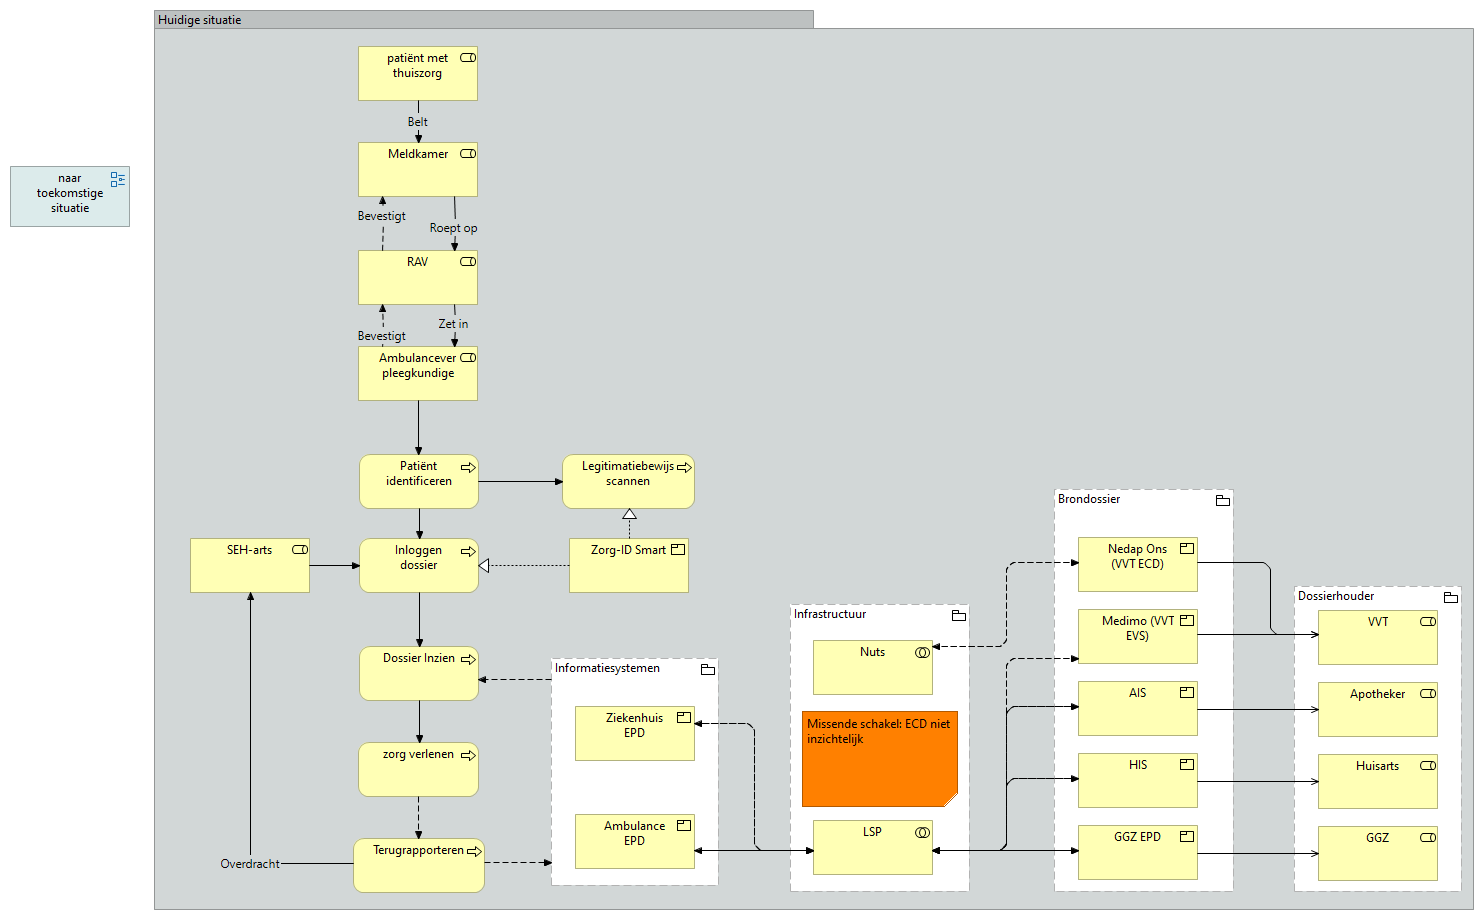
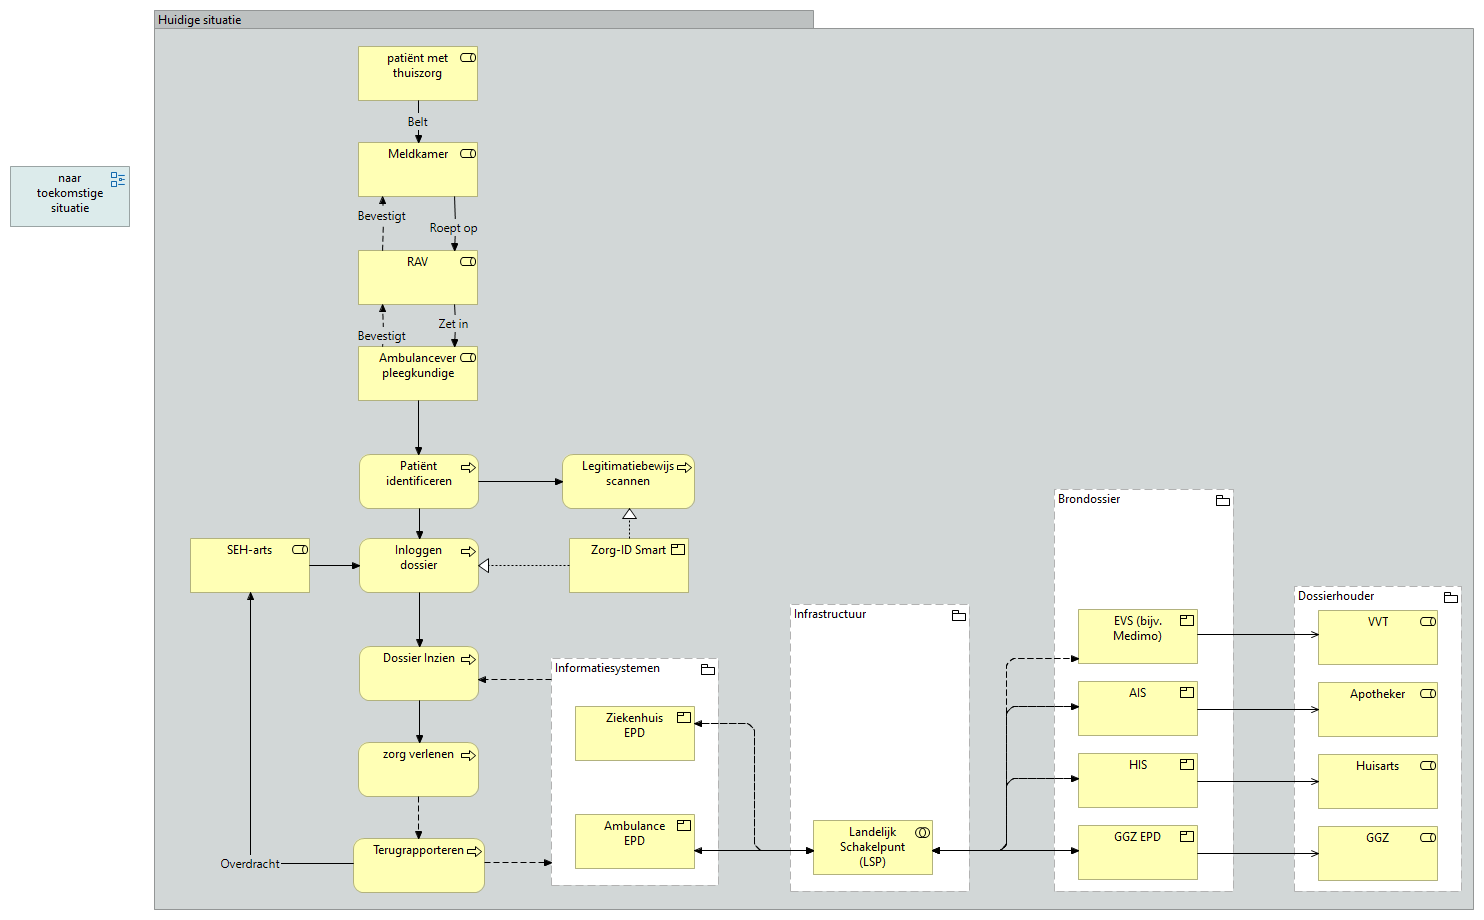
aanpassing labels

Changed region(s): [[0.527, 0.6696, 0.6509, 0.9435], [0.7129, 0.5783, 0.8059, 0.7]]

diff --git a/id-2978c798c725459f88e9747ef69d2dee/views/id-892637a22e7f4433a2bf2a9d409f790b.html b/id-2978c798c725459f88e9747ef69d2dee/views/id-892637a22e7f4433a2bf2a9d409f790b.html
@@ -39,7 +39,6 @@
 				  				<area shape="rect" coords="1078,753,1198,808" href="../elements/id-8a04cf6429d34b03b0242abb523a407c.html"  target="element">
 				  				<area shape="rect" coords="1078,681,1198,736" href="../elements/id-c128988b8b85412ebed89185a4fd1a63.html"  target="element">
 				  				<area shape="rect" coords="1078,609,1198,664" href="../elements/id-0154bebb7cc047919d71fb9e2e324224.html"  target="element">
-				  				<area shape="rect" coords="1078,537,1198,592" href="../elements/id-6486b65c8ce1423893e4a9becf7341fa.html"  target="element">
 
 				  		<area shape="rect" coords="1054,489,1234,892" href="../elements/id-f3c2c09665e244898fb362988f17a6cb.html"  target="element">
 				  		<area shape="rect" coords="190,538,310,593" href="../elements/id-195655a7af58488fa645f840015280d1.html"  target="element">
@@ -52,9 +51,7 @@
 				  				<area shape="rect" coords="1318,610,1438,665" href="../elements/id-a970b32e162041cbbf8ad7f137a571d1.html"  target="element">
 
 				  		<area shape="rect" coords="1294,586,1462,892" href="../elements/id-c75d58281407487ba07c6c3db7667ac8.html"  target="element">
-				  		        <area shape="rect" coords="802,711,958,807" href="../objects/id-f76ed3fcf4cd4d2c882f3efcffc1f04a.html" target="element" >
 				  				<area shape="rect" coords="813,820,933,875" href="../elements/id-a59d50bca7c34a3cb3f466aa075fb730.html"  target="element">
-				  				<area shape="rect" coords="813,640,933,695" href="../elements/id-6630bae397fe4a73988847b048e6857e.html"  target="element">
 
 				  		<area shape="rect" coords="790,604,970,892" href="../elements/id-c5aade47d6ff4762817a4b716416e804.html"  target="element">
 				  				<area shape="rect" coords="575,706,695,761" href="../elements/id-26580f8f450f41aa9a885f51ea0f2d86.html"  target="element">
@@ -220,21 +217,10 @@
 											</tr>
 
 													<tr>
-													    <td> <a href="../elements/id-6630bae397fe4a73988847b048e6857e.html" target="element"> Nuts </a> </td>
-													    <td> <a href="../elements/id-6630bae397fe4a73988847b048e6857e.html" target="element" class="i18n-elementtype-BusinessCollaboration">
-													    </a> </td>
-													</tr>
-
-													<tr>
 													    <td> <a href="../elements/id-a59d50bca7c34a3cb3f466aa075fb730.html" target="element"> LSP </a> </td>
 													    <td> <a href="../elements/id-a59d50bca7c34a3cb3f466aa075fb730.html" target="element" class="i18n-elementtype-BusinessCollaboration">
 													    </a> </td>
 													</tr>
-
-											        <tr>
-											           <td> <a href="../objects/id-f76ed3fcf4cd4d2c882f3efcffc1f04a.html" target="element">  </a> </td>
-											           <td> <a href="../objects/id-f76ed3fcf4cd4d2c882f3efcffc1f04a.html" target="element" class="i18n-elementtype-DiagramModelNote"> </a> </td>
-											        </tr>
 
 											
 											<tr>
@@ -297,12 +283,6 @@
 											    <td> <a href="../elements/id-f3c2c09665e244898fb362988f17a6cb.html" target="element" class="i18n-elementtype-Grouping">
 											    </a> </td>
 											</tr>
-
-													<tr>
-													    <td> <a href="../elements/id-6486b65c8ce1423893e4a9becf7341fa.html" target="element"> Nedap Ons </a> </td>
-													    <td> <a href="../elements/id-6486b65c8ce1423893e4a9becf7341fa.html" target="element" class="i18n-elementtype-Product">
-													    </a> </td>
-													</tr>
 
 													<tr>
 													    <td> <a href="../elements/id-0154bebb7cc047919d71fb9e2e324224.html" target="element"> Medimo </a> </td>
@@ -468,27 +448,12 @@
 
 											
 																	<tr>
-																		<td> <a href="../elements/id-6247fae72acb41b9b498b3d62cec899a.html" target="element">  </a> </td>
-																		<td> <a href="../elements/id-6247fae72acb41b9b498b3d62cec899a.html" target="element" class="i18n-elementtype-AggregationRelationship">
-																		</a> </td>
-																		<td> <a href="../elements/id-c5aade47d6ff4762817a4b716416e804.html" target="element"> Infrastructuur </a> </td>
-																		<td> <a href="../elements/id-6630bae397fe4a73988847b048e6857e.html" target="element"> Nuts </a> </td>
-																	</tr>
-																	<tr>
 																		<td> <a href="../elements/id-efd465178cff49399cfb521c43d6dcc8.html" target="element">  </a> </td>
 																		<td> <a href="../elements/id-efd465178cff49399cfb521c43d6dcc8.html" target="element" class="i18n-elementtype-AggregationRelationship">
 																		</a> </td>
 																		<td> <a href="../elements/id-c5aade47d6ff4762817a4b716416e804.html" target="element"> Infrastructuur </a> </td>
 																		<td> <a href="../elements/id-a59d50bca7c34a3cb3f466aa075fb730.html" target="element"> LSP </a> </td>
 																	</tr>
-
-																			<tr>
-																				<td> <a href="../elements/id-fe1fe24991e24a5faaf570ad2e99f2b4.html" target="element">  </a> </td>
-																				<td> <a href="../elements/id-fe1fe24991e24a5faaf570ad2e99f2b4.html" target="element" class="i18n-elementtype-FlowRelationship">
-																				</a> </td>
-																				<td> <a href="../elements/id-6630bae397fe4a73988847b048e6857e.html" target="element"> Nuts </a> </td>
-																				<td> <a href="../elements/id-6486b65c8ce1423893e4a9becf7341fa.html" target="element"> Nedap Ons </a> </td>
-																			</tr>
 
 																			<tr>
 																				<td> <a href="../elements/id-8fb7ecbf844140c2be4ddc593ee3567d.html" target="element">  </a> </td>
@@ -533,7 +498,6 @@
 																				<td> <a href="../elements/id-2add5742801a463bbf8273d3b4193ef6.html" target="element"> GGZ EPD </a> </td>
 																			</tr>
 
-													<!-- DEBUG: Skipping element from class com.archimatetool.model.impl.DiagramModelNote -->
 											
 																	<tr>
 																		<td> <a href="../elements/id-86558f0ed20e42aeb30024cd85181748.html" target="element">  </a> </td>
@@ -612,13 +576,6 @@
 																	</tr>
 
 																	<tr>
-																		<td> <a href="../elements/id-b43262f5a25c4f76b430c42536453e46.html" target="element">  </a> </td>
-																		<td> <a href="../elements/id-b43262f5a25c4f76b430c42536453e46.html" target="element" class="i18n-elementtype-AggregationRelationship">
-																		</a> </td>
-																		<td> <a href="../elements/id-f3c2c09665e244898fb362988f17a6cb.html" target="element"> Brondossier </a> </td>
-																		<td> <a href="../elements/id-6486b65c8ce1423893e4a9becf7341fa.html" target="element"> Nedap Ons </a> </td>
-																	</tr>
-																	<tr>
 																		<td> <a href="../elements/id-8769dfa7d9f74b35a034e93c3c5f3baa.html" target="element">  </a> </td>
 																		<td> <a href="../elements/id-8769dfa7d9f74b35a034e93c3c5f3baa.html" target="element" class="i18n-elementtype-AggregationRelationship">
 																		</a> </td>
@@ -646,21 +603,6 @@
 																		<td> <a href="../elements/id-f3c2c09665e244898fb362988f17a6cb.html" target="element"> Brondossier </a> </td>
 																		<td> <a href="../elements/id-2add5742801a463bbf8273d3b4193ef6.html" target="element"> GGZ EPD </a> </td>
 																	</tr>
-
-																			<tr>
-																				<td> <a href="../elements/id-ed3772de003f44da9d466bab42705493.html" target="element">  </a> </td>
-																				<td> <a href="../elements/id-ed3772de003f44da9d466bab42705493.html" target="element" class="i18n-elementtype-FlowRelationship">
-																				</a> </td>
-																				<td> <a href="../elements/id-6486b65c8ce1423893e4a9becf7341fa.html" target="element"> Nedap Ons </a> </td>
-																				<td> <a href="../elements/id-6630bae397fe4a73988847b048e6857e.html" target="element"> Nuts </a> </td>
-																			</tr>
-																			<tr>
-																				<td> <a href="../elements/id-2a96133ccfc34ce0abde0213d7c7ecdd.html" target="element">  </a> </td>
-																				<td> <a href="../elements/id-2a96133ccfc34ce0abde0213d7c7ecdd.html" target="element" class="i18n-elementtype-ServingRelationship">
-																				</a> </td>
-																				<td> <a href="../elements/id-6486b65c8ce1423893e4a9becf7341fa.html" target="element"> Nedap Ons </a> </td>
-																				<td> <a href="../elements/id-a970b32e162041cbbf8ad7f137a571d1.html" target="element"> VVT </a> </td>
-																			</tr>
 
 																			<tr>
 																				<td> <a href="../elements/id-051925e756b442e19a325afddec67ec3.html" target="element">  </a> </td>

diff --git a/id-2978c798c725459f88e9747ef69d2dee/elements/model.html b/id-2978c798c725459f88e9747ef69d2dee/elements/model.html
@@ -2007,7 +2007,6 @@
 															dataViewsContent.push({viewid:"id-892637a22e7f4433a2bf2a9d409f790b", contentid:"id-26580f8f450f41aa9a885f51ea0f2d86", contenttype:"Product"});
 													
 													dataViewsContent.push({viewid:"id-892637a22e7f4433a2bf2a9d409f790b", contentid:"id-c5aade47d6ff4762817a4b716416e804", contenttype:"Grouping"});
-															dataViewsContent.push({viewid:"id-892637a22e7f4433a2bf2a9d409f790b", contentid:"id-6630bae397fe4a73988847b048e6857e", contenttype:"BusinessCollaboration"});
 															dataViewsContent.push({viewid:"id-892637a22e7f4433a2bf2a9d409f790b", contentid:"id-a59d50bca7c34a3cb3f466aa075fb730", contenttype:"BusinessCollaboration"});
 													
 													dataViewsContent.push({viewid:"id-892637a22e7f4433a2bf2a9d409f790b", contentid:"id-c75d58281407487ba07c6c3db7667ac8", contenttype:"Grouping"});
@@ -2021,7 +2020,6 @@
 													dataViewsContent.push({viewid:"id-892637a22e7f4433a2bf2a9d409f790b", contentid:"id-cacf91a887c9471e9c61854f90def539", contenttype:"BusinessRole"});
 													dataViewsContent.push({viewid:"id-892637a22e7f4433a2bf2a9d409f790b", contentid:"id-195655a7af58488fa645f840015280d1", contenttype:"BusinessRole"});
 													dataViewsContent.push({viewid:"id-892637a22e7f4433a2bf2a9d409f790b", contentid:"id-f3c2c09665e244898fb362988f17a6cb", contenttype:"Grouping"});
-															dataViewsContent.push({viewid:"id-892637a22e7f4433a2bf2a9d409f790b", contentid:"id-6486b65c8ce1423893e4a9becf7341fa", contenttype:"Product"});
 															dataViewsContent.push({viewid:"id-892637a22e7f4433a2bf2a9d409f790b", contentid:"id-0154bebb7cc047919d71fb9e2e324224", contenttype:"Product"});
 															dataViewsContent.push({viewid:"id-892637a22e7f4433a2bf2a9d409f790b", contentid:"id-c128988b8b85412ebed89185a4fd1a63", contenttype:"Product"});
 															dataViewsContent.push({viewid:"id-892637a22e7f4433a2bf2a9d409f790b", contentid:"id-8a04cf6429d34b03b0242abb523a407c", contenttype:"Product"});
@@ -2055,10 +2053,7 @@
 																					dataViewsContent.push({viewid:"id-892637a22e7f4433a2bf2a9d409f790b", contentid:"id-30cdd98aa2824c4ca3bdbb4995ee1178", contenttype:"FlowRelationship"});
 
 													
-																			dataViewsContent.push({viewid:"id-892637a22e7f4433a2bf2a9d409f790b", contentid:"id-6247fae72acb41b9b498b3d62cec899a", contenttype:"AggregationRelationship"});
 																			dataViewsContent.push({viewid:"id-892637a22e7f4433a2bf2a9d409f790b", contentid:"id-efd465178cff49399cfb521c43d6dcc8", contenttype:"AggregationRelationship"});
-
-																					dataViewsContent.push({viewid:"id-892637a22e7f4433a2bf2a9d409f790b", contentid:"id-fe1fe24991e24a5faaf570ad2e99f2b4", contenttype:"FlowRelationship"});
 
 																					dataViewsContent.push({viewid:"id-892637a22e7f4433a2bf2a9d409f790b", contentid:"id-8fb7ecbf844140c2be4ddc593ee3567d", contenttype:"FlowRelationship"});
 																					dataViewsContent.push({viewid:"id-892637a22e7f4433a2bf2a9d409f790b", contentid:"id-d156e15619384c6385ae4365e1921f75", contenttype:"FlowRelationship"});
@@ -2084,14 +2079,10 @@
 
 																			dataViewsContent.push({viewid:"id-892637a22e7f4433a2bf2a9d409f790b", contentid:"id-6561fd598fef4b2e829c1b9860d2fda3", contenttype:"TriggeringRelationship"});
 
-																			dataViewsContent.push({viewid:"id-892637a22e7f4433a2bf2a9d409f790b", contentid:"id-b43262f5a25c4f76b430c42536453e46", contenttype:"AggregationRelationship"});
 																			dataViewsContent.push({viewid:"id-892637a22e7f4433a2bf2a9d409f790b", contentid:"id-8769dfa7d9f74b35a034e93c3c5f3baa", contenttype:"AggregationRelationship"});
 																			dataViewsContent.push({viewid:"id-892637a22e7f4433a2bf2a9d409f790b", contentid:"id-a0ccfa99e69f45218d0252a7bfb4d08d", contenttype:"AggregationRelationship"});
 																			dataViewsContent.push({viewid:"id-892637a22e7f4433a2bf2a9d409f790b", contentid:"id-c9378322ae784198a2f215517f462590", contenttype:"AggregationRelationship"});
 																			dataViewsContent.push({viewid:"id-892637a22e7f4433a2bf2a9d409f790b", contentid:"id-1382fbc51cf64a5cbe66990d87179d53", contenttype:"AggregationRelationship"});
-
-																					dataViewsContent.push({viewid:"id-892637a22e7f4433a2bf2a9d409f790b", contentid:"id-ed3772de003f44da9d466bab42705493", contenttype:"FlowRelationship"});
-																					dataViewsContent.push({viewid:"id-892637a22e7f4433a2bf2a9d409f790b", contentid:"id-2a96133ccfc34ce0abde0213d7c7ecdd", contenttype:"ServingRelationship"});
 
 																					dataViewsContent.push({viewid:"id-892637a22e7f4433a2bf2a9d409f790b", contentid:"id-051925e756b442e19a325afddec67ec3", contenttype:"FlowRelationship"});
 																					dataViewsContent.push({viewid:"id-892637a22e7f4433a2bf2a9d409f790b", contentid:"id-95143a8881b4461bac135266a4a4a147", contenttype:"ServingRelationship"});

diff --git a/id-2978c798c725459f88e9747ef69d2dee/elements/id-6486b65c8ce1423893e4a9becf7341fa.html b/id-2978c798c725459f88e9747ef69d2dee/elements/id-6486b65c8ce1423893e4a9becf7341fa.html
@@ -87,9 +87,6 @@
 																</tr><tr id="used-in-views-id-b44fc0a6b11f40da8a2934f383095682">
 																	<td><a href="../views/id-b44fc0a6b11f40da8a2934f383095682.html" target="view" title="Usecase acute VVT-zorg na HAP doorverwijzing oogpunt thuiszorg nu"> Usecase acute VVT-zorg na HAP doorverwijzing oogpunt thuiszorg nu </a></td>
 																	<td><span class="i18n-viewpoint-layered" /></td>
-																</tr><tr id="used-in-views-id-892637a22e7f4433a2bf2a9d409f790b">
-																	<td><a href="../views/id-892637a22e7f4433a2bf2a9d409f790b.html" target="view" title="Usecase VVT-dossier beschikbaar voor ambulance/SEH nu"> Usecase VVT-dossier beschikbaar voor ambulance/SEH nu </a></td>
-																	<td><span class="i18n-viewpoint-layered" /></td>
 																</tr><tr id="used-in-views-id-a50dff70b24740e78c565de144caa852">
 																	<td><a href="../views/id-a50dff70b24740e78c565de144caa852.html" target="view" title="Usecase acute VVT-zorg na HAP doorverwijzing oogpunt thuiszorg toekomst"> Usecase acute VVT-zorg na HAP doorverwijzing oogpunt thuiszorg toekomst </a></td>
 																	<td><span class="i18n-viewpoint-layered" /></td>

diff --git a/id-2978c798c725459f88e9747ef69d2dee/elements/id-b43262f5a25c4f76b430c42536453e46.html b/id-2978c798c725459f88e9747ef69d2dee/elements/id-b43262f5a25c4f76b430c42536453e46.html
@@ -89,9 +89,6 @@
 																</tr><tr id="used-in-views-id-e6a0bb0baf5242a7a78ad7168a453a6c">
 																	<td><a href="../views/id-e6a0bb0baf5242a7a78ad7168a453a6c.html" target="view" title="Usecase VVT-dossier beschikbaar voor ambulance/SEH toekomst"> Usecase VVT-dossier beschikbaar voor ambulance/SEH toekomst </a></td>
 																	<td><span class="i18n-viewpoint-layered" /></td>
-																</tr><tr id="used-in-views-id-892637a22e7f4433a2bf2a9d409f790b">
-																	<td><a href="../views/id-892637a22e7f4433a2bf2a9d409f790b.html" target="view" title="Usecase VVT-dossier beschikbaar voor ambulance/SEH nu"> Usecase VVT-dossier beschikbaar voor ambulance/SEH nu </a></td>
-																	<td><span class="i18n-viewpoint-layered" /></td>
 																</tr><tr id="used-in-views-id-a50dff70b24740e78c565de144caa852">
 																	<td><a href="../views/id-a50dff70b24740e78c565de144caa852.html" target="view" title="Usecase acute VVT-zorg na HAP doorverwijzing oogpunt thuiszorg toekomst"> Usecase acute VVT-zorg na HAP doorverwijzing oogpunt thuiszorg toekomst </a></td>
 																	<td><span class="i18n-viewpoint-layered" /></td>

diff --git a/id-2978c798c725459f88e9747ef69d2dee/elements/id-ed3772de003f44da9d466bab42705493.html b/id-2978c798c725459f88e9747ef69d2dee/elements/id-ed3772de003f44da9d466bab42705493.html
@@ -95,9 +95,6 @@
 																</tr><tr id="used-in-views-id-b44fc0a6b11f40da8a2934f383095682">
 																	<td><a href="../views/id-b44fc0a6b11f40da8a2934f383095682.html" target="view" title="Usecase acute VVT-zorg na HAP doorverwijzing oogpunt thuiszorg nu"> Usecase acute VVT-zorg na HAP doorverwijzing oogpunt thuiszorg nu </a></td>
 																	<td><span class="i18n-viewpoint-layered" /></td>
-																</tr><tr id="used-in-views-id-892637a22e7f4433a2bf2a9d409f790b">
-																	<td><a href="../views/id-892637a22e7f4433a2bf2a9d409f790b.html" target="view" title="Usecase VVT-dossier beschikbaar voor ambulance/SEH nu"> Usecase VVT-dossier beschikbaar voor ambulance/SEH nu </a></td>
-																	<td><span class="i18n-viewpoint-layered" /></td>
 																</tr><tr id="used-in-views-id-e6a0bb0baf5242a7a78ad7168a453a6c">
 																	<td><a href="../views/id-e6a0bb0baf5242a7a78ad7168a453a6c.html" target="view" title="Usecase VVT-dossier beschikbaar voor ambulance/SEH toekomst"> Usecase VVT-dossier beschikbaar voor ambulance/SEH toekomst </a></td>
 																	<td><span class="i18n-viewpoint-layered" /></td>

diff --git a/id-2978c798c725459f88e9747ef69d2dee/elements/id-2a96133ccfc34ce0abde0213d7c7ecdd.html b/id-2978c798c725459f88e9747ef69d2dee/elements/id-2a96133ccfc34ce0abde0213d7c7ecdd.html
@@ -86,9 +86,6 @@
 								<tr id="used-in-views-id-b44fc0a6b11f40da8a2934f383095682">
 																	<td><a href="../views/id-b44fc0a6b11f40da8a2934f383095682.html" target="view" title="Usecase acute VVT-zorg na HAP doorverwijzing oogpunt thuiszorg nu"> Usecase acute VVT-zorg na HAP doorverwijzing oogpunt thuiszorg nu </a></td>
 																	<td><span class="i18n-viewpoint-layered" /></td>
-																</tr><tr id="used-in-views-id-892637a22e7f4433a2bf2a9d409f790b">
-																	<td><a href="../views/id-892637a22e7f4433a2bf2a9d409f790b.html" target="view" title="Usecase VVT-dossier beschikbaar voor ambulance/SEH nu"> Usecase VVT-dossier beschikbaar voor ambulance/SEH nu </a></td>
-																	<td><span class="i18n-viewpoint-layered" /></td>
 																</tr><tr id="used-in-views-id-e6a0bb0baf5242a7a78ad7168a453a6c">
 																	<td><a href="../views/id-e6a0bb0baf5242a7a78ad7168a453a6c.html" target="view" title="Usecase VVT-dossier beschikbaar voor ambulance/SEH toekomst"> Usecase VVT-dossier beschikbaar voor ambulance/SEH toekomst </a></td>
 																	<td><span class="i18n-viewpoint-layered" /></td>

diff --git a/id-2978c798c725459f88e9747ef69d2dee/elements/id-fe1fe24991e24a5faaf570ad2e99f2b4.html b/id-2978c798c725459f88e9747ef69d2dee/elements/id-fe1fe24991e24a5faaf570ad2e99f2b4.html
@@ -86,9 +86,6 @@
 								<tr id="used-in-views-id-b44fc0a6b11f40da8a2934f383095682">
 																	<td><a href="../views/id-b44fc0a6b11f40da8a2934f383095682.html" target="view" title="Usecase acute VVT-zorg na HAP doorverwijzing oogpunt thuiszorg nu"> Usecase acute VVT-zorg na HAP doorverwijzing oogpunt thuiszorg nu </a></td>
 																	<td><span class="i18n-viewpoint-layered" /></td>
-																</tr><tr id="used-in-views-id-892637a22e7f4433a2bf2a9d409f790b">
-																	<td><a href="../views/id-892637a22e7f4433a2bf2a9d409f790b.html" target="view" title="Usecase VVT-dossier beschikbaar voor ambulance/SEH nu"> Usecase VVT-dossier beschikbaar voor ambulance/SEH nu </a></td>
-																	<td><span class="i18n-viewpoint-layered" /></td>
 																</tr><tr id="used-in-views-id-e6a0bb0baf5242a7a78ad7168a453a6c">
 																	<td><a href="../views/id-e6a0bb0baf5242a7a78ad7168a453a6c.html" target="view" title="Usecase VVT-dossier beschikbaar voor ambulance/SEH toekomst"> Usecase VVT-dossier beschikbaar voor ambulance/SEH toekomst </a></td>
 																	<td><span class="i18n-viewpoint-layered" /></td>

diff --git a/id-2978c798c725459f88e9747ef69d2dee/elements/id-6630bae397fe4a73988847b048e6857e.html b/id-2978c798c725459f88e9747ef69d2dee/elements/id-6630bae397fe4a73988847b048e6857e.html
@@ -81,9 +81,6 @@
 																</tr><tr id="used-in-views-id-7be8ab6c7f884d09abe04b122119af09">
 																	<td><a href="../views/id-7be8ab6c7f884d09abe04b122119af09.html" target="view" title="inzage ECD door SEH met CBoards"> inzage ECD door SEH met CBoards </a></td>
 																	<td><span class="i18n-viewpoint-" /></td>
-																</tr><tr id="used-in-views-id-892637a22e7f4433a2bf2a9d409f790b">
-																	<td><a href="../views/id-892637a22e7f4433a2bf2a9d409f790b.html" target="view" title="Usecase VVT-dossier beschikbaar voor ambulance/SEH nu"> Usecase VVT-dossier beschikbaar voor ambulance/SEH nu </a></td>
-																	<td><span class="i18n-viewpoint-layered" /></td>
 																</tr><tr id="used-in-views-id-b44fc0a6b11f40da8a2934f383095682">
 																	<td><a href="../views/id-b44fc0a6b11f40da8a2934f383095682.html" target="view" title="Usecase acute VVT-zorg na HAP doorverwijzing oogpunt thuiszorg nu"> Usecase acute VVT-zorg na HAP doorverwijzing oogpunt thuiszorg nu </a></td>
 																	<td><span class="i18n-viewpoint-layered" /></td>

diff --git a/id-2978c798c725459f88e9747ef69d2dee/elements/id-6247fae72acb41b9b498b3d62cec899a.html b/id-2978c798c725459f88e9747ef69d2dee/elements/id-6247fae72acb41b9b498b3d62cec899a.html
@@ -83,10 +83,7 @@
 								</tr>
 							</thead>
 							<tbody>
-								<tr id="used-in-views-id-892637a22e7f4433a2bf2a9d409f790b">
-																	<td><a href="../views/id-892637a22e7f4433a2bf2a9d409f790b.html" target="view" title="Usecase VVT-dossier beschikbaar voor ambulance/SEH nu"> Usecase VVT-dossier beschikbaar voor ambulance/SEH nu </a></td>
-																	<td><span class="i18n-viewpoint-layered" /></td>
-																</tr><tr id="used-in-views-id-e6a0bb0baf5242a7a78ad7168a453a6c">
+								<tr id="used-in-views-id-e6a0bb0baf5242a7a78ad7168a453a6c">
 																	<td><a href="../views/id-e6a0bb0baf5242a7a78ad7168a453a6c.html" target="view" title="Usecase VVT-dossier beschikbaar voor ambulance/SEH toekomst"> Usecase VVT-dossier beschikbaar voor ambulance/SEH toekomst </a></td>
 																	<td><span class="i18n-viewpoint-layered" /></td>
 																</tr><tr id="used-in-views-id-b44fc0a6b11f40da8a2934f383095682">
